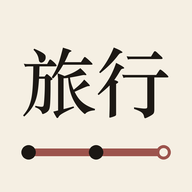
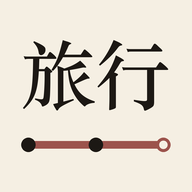
圖示：字與路線整組依實際範圍置中，上下留白等寬；快取升 v3

Changed region(s): [[0.125, 0.1875, 0.875, 0.625], [0.0938, 0.6875, 0.9062, 0.8438]]

diff --git a/sw.js b/sw.js
@@ -1,6 +1,6 @@
 // 旅ことば service worker
 // 同一個 github.io origin 上還有別的 PWA：只刪自己的舊快取、只攔自己子路徑的請求。
-const CACHE_VERSION = 'tabi-kotoba-v2';
+const CACHE_VERSION = 'tabi-kotoba-v3';
 const AUDIO_CACHE = 'tabi-kotoba-audio'; // 不帶版本號：改版不清掉已下載的發音
 const CORE = [
   './',

diff --git a/tools/make_icons.py b/tools/make_icons.py
@@ -16,27 +16,32 @@ LINE = (0x9C, 0x53, 0x4C)     # 朱赭（緊急・求助那組色票的主色）
 
 
 def draw(size, scale=1.0):
+    """先把字與路線畫在透明圖層，量出實際筆畫範圍後整組置中：上下留白等寬、左右留白等寬
+    （2026-09-25 使用者要求上下界等寬；原本字的位置是目測，上方留白比下方多約一半）"""
     S = 1024
-    img = Image.new("RGB", (S, S), GROUND)
-    d = ImageDraw.Draw(img)
-    c = S / 2
     k = scale
+    layer = Image.new("RGBA", (S, S), (0, 0, 0, 0))
+    d = ImageDraw.Draw(layer)
+    c = S / 2
     font = ImageFont.truetype(FONT, int(400 * k), index=FONT_INDEX)
     bb = d.textbbox((0, 0), TEXT, font=font)
     w, h = bb[2] - bb[0], bb[3] - bb[1]
     top = c - h / 2 - int(70 * k)
-    d.text((c - w / 2 - bb[0], top - bb[1]), TEXT, font=font, fill=INK)
+    d.text((c - w / 2 - bb[0], top - bb[1]), TEXT, font=font, fill=INK + (255,))
     # 路線與站點：前兩站實心（已到），最後一站空心（下一站）
     y = c + int(300 * k)
     x0, x1 = c - int(380 * k), c + int(380 * k)
     lw = int(40 * k)
-    d.rounded_rectangle([x0, y - lw / 2, x1, y + lw / 2], radius=lw / 2, fill=LINE)
+    d.rounded_rectangle([x0, y - lw / 2, x1, y + lw / 2], radius=lw / 2, fill=LINE + (255,))
     r = int(38 * k)
     for i, x in enumerate([x0 + lw / 2, c, x1 - lw / 2]):
         if i < 2:
-            d.ellipse([x - r, y - r, x + r, y + r], fill=INK)
+            d.ellipse([x - r, y - r, x + r, y + r], fill=INK + (255,))
         else:
-            d.ellipse([x - r, y - r, x + r, y + r], fill=GROUND, outline=LINE, width=int(16 * k))
+            d.ellipse([x - r, y - r, x + r, y + r], fill=GROUND + (255,), outline=LINE + (255,), width=int(16 * k))
+    group = layer.crop(layer.getbbox())
+    img = Image.new("RGB", (S, S), GROUND)
+    img.paste(group, ((S - group.width) // 2, (S - group.height) // 2), group)
     return img.resize((size, size), Image.LANCZOS)
 
 
